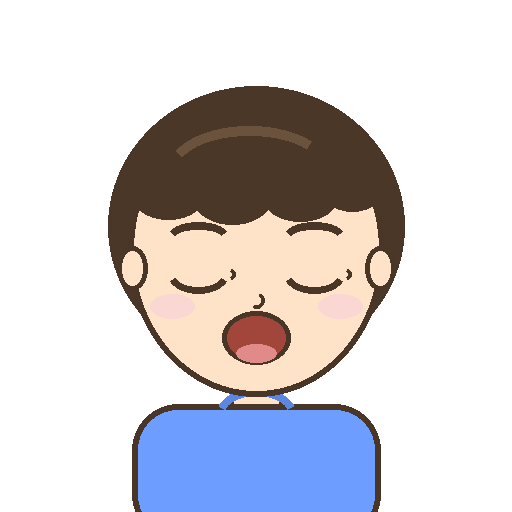
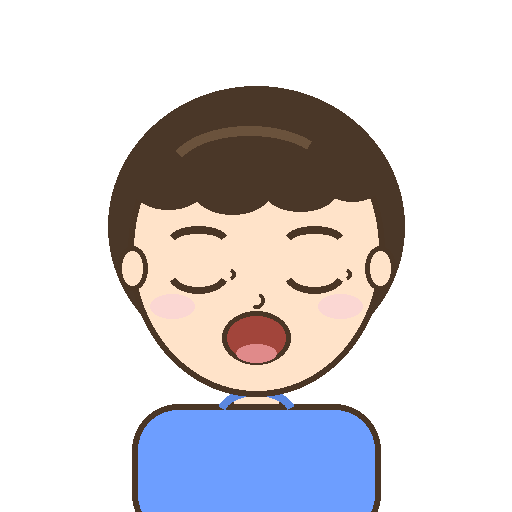
표현력 패키지: 마우스 시선 추적 + 텍스트 감정 자동 프리셋(3페이지) + 기본 캐릭터 눈썹 가림 수정

Changed region(s): [[0.2812, 0.375, 0.75, 0.4688]]

diff --git a/static/puppet.html b/static/puppet.html
@@ -64,6 +64,7 @@
     <button type="button" class="alt" data-emo="sad">😢 슬픔</button>
     <button type="button" class="alt" data-emo="angry">😠 화남</button>
     <button type="button" class="alt" data-emo="surprise">😲 놀람</button>
+    <label><input type="checkbox" id="autoEmo" checked> 감정 자동</label>
   </div>
 
   <div class="row">
@@ -240,6 +241,12 @@ function acceptFile(file) {
   reader.readAsDataURL(file);
 }
 const stage = document.querySelector(".stage");
+stage.addEventListener("pointermove", e => {  // 시선 커서 추적
+  const r = stage.getBoundingClientRect();
+  cursorGX = ((e.clientX - r.left) / r.width - 0.5) * 2;
+  cursorGY = ((e.clientY - r.top) / r.height - 0.5) * 2;
+});
+stage.addEventListener("pointerleave", () => { cursorGX = 0; cursorGY = 0; });
 stage.addEventListener("dragover", e => e.preventDefault());
 stage.addEventListener("drop", e => { e.preventDefault(); acceptFile(e.dataTransfer.files[0]); });
 $("addChar").onclick = () => $("charFile").click();
@@ -249,6 +256,7 @@ $("charFile").onchange = e => { acceptFile(e.target.files[0]); e.target.value = 
 let anim = null;          // {fps, frames, index(names→col)} 재생 중인 발화
 let smooth = {};          // 지수 평활된 현재 가중치
 let nod = 0, wanderNext = 0, wanderR = 0, wanderY = 0, wanderGoalR = 0, wanderGoalY = 0;
+let cursorGX = 0, cursorGY = 0, gazeSX = 0, gazeSY = 0;  // 커서 시선(목표/평활)
 const norm = s => s.toLowerCase().replace(/[_\-\s]/g, "");
 
 function currentWeights() {
@@ -272,13 +280,24 @@ const EMOTIONS = {
   surprise: { browinnerup: 0.5, browouterupleft: 0.7, browouterupright: 0.7, jawopen: 0.3 },
 };
 let emotion = EMOTIONS.neutral;
+function setEmotion(key) {
+  emotion = EMOTIONS[key] || EMOTIONS.neutral;
+  document.querySelectorAll("#emotions button").forEach(x =>
+    x.style.background = x.dataset.emo === key ? "#5b8cff" : "#2a2a35");
+}
 document.querySelectorAll("#emotions button").forEach(b => {
-  b.onclick = () => {
-    emotion = EMOTIONS[b.dataset.emo];
-    document.querySelectorAll("#emotions button").forEach(x => x.style.background = "#2a2a35");
-    b.style.background = "#5b8cff";
-  };
+  b.onclick = () => setEmotion(b.dataset.emo);
 });
+
+// 텍스트 감정 추론 (발화 시 자동 프리셋 — puppet/docs/studio3d 동일 규칙 유지할 것)
+function inferEmotion(text) {
+  if (/ㅋㅋ|ㅎㅎ|하하|호호|웃겨|웃음/.test(text)) return "joy";  // 웃음이 최우선 신호
+  if (/[ㅠㅜ]{2,}|슬프|슬퍼|우울|눈물|아파|힘들|속상|외로/.test(text)) return "sad";
+  if (/화나|화가|짜증|열받|분노|싫어|그만해/.test(text)) return "angry";
+  if (/헉|깜짝|놀라|대박|세상에|믿을 수|[?!]{2,}/.test(text)) return "surprise";
+  if (/ㅋㅋ|ㅎㅎ|하하|호호|신나|행복|좋아|좋다|최고|사랑|기뻐|반가|!/.test(text)) return "joy";
+  return null;
+}
 
 // ---------- 깜빡임 (버튼 + 자동) ----------
 let blinkUntil = 0, nextAutoBlink = performance.now() + 4000;
@@ -531,11 +550,14 @@ function render(now) {
     draw("eye_L_closed"); draw("eye_R_closed");
   } else {
     draw("eye_L_open"); draw("eye_R_open");
-    const gx = +$("ovGaze").value ||
-      (W("eyelookoutright") + W("eyelookinleft") - W("eyelookoutleft") - W("eyelookinright")) / 2;
-    const gy = (W("eyelookdownleft") + W("eyelookdownright") - W("eyelookupleft") - W("eyelookupright")) / 2;
-    draw("pupil_L", gx * manifest.pupilRange, gy * manifest.pupilRange);
-    draw("pupil_R", gx * manifest.pupilRange, gy * manifest.pupilRange);
+    // 시선 우선순위: 슬라이더 > 엔진 채널 > 마우스 커서 추적
+    const chX = (W("eyelookoutright") + W("eyelookinleft") - W("eyelookoutleft") - W("eyelookinright")) / 2;
+    const chY = (W("eyelookdownleft") + W("eyelookdownright") - W("eyelookupleft") - W("eyelookupright")) / 2;
+    const sl = +$("ovGaze").value;
+    gazeSX += ((Math.abs(sl) > 0.01 ? sl : (chX || cursorGX * 0.9)) - gazeSX) * 0.15;
+    gazeSY += ((chY || cursorGY * 0.6) - gazeSY) * 0.15;
+    draw("pupil_L", gazeSX * manifest.pupilRange, gazeSY * manifest.pupilRange);
+    draw("pupil_R", gazeSX * manifest.pupilRange, gazeSY * manifest.pupilRange);
   }
   // 입 오버레이 세로 이동: 워프 ON이면 jaw 변위장을 입 앵커에서 평가한 값(≈11px·jaw)으로 대체해
   // base 워프와 정확히 함께 움직이게 함(이중 이동 방지). OFF면 기존 jawDrop 사용.
@@ -563,6 +585,10 @@ $("form").onsubmit = async e => {
   e.preventDefault();
   const text = $("text").value.trim();
   if (!text) return;
+  if ($("autoEmo").checked) {
+    const emo = inferEmotion(text);
+    if (emo) setEmotion(emo);
+  }
   $("send").disabled = true;
   setStatus("생성 중…");
   try {

diff --git a/docs/index.html b/docs/index.html
@@ -57,6 +57,7 @@
     <button type="button" class="alt" data-emo="sad">😢 슬픔</button>
     <button type="button" class="alt" data-emo="angry">😠 화남</button>
     <button type="button" class="alt" data-emo="surprise">😲 놀람</button>
+    <label><input type="checkbox" id="autoEmo" checked> 감정 자동</label>
   </div>
 
   <div class="row">
@@ -218,18 +219,30 @@ const EMOTIONS = {
   surprise: { browinnerup: 0.5, browouterupleft: 0.7, browouterupright: 0.7, jawopen: 0.3 },
 };
 let emotion = EMOTIONS.neutral;
+function setEmotion(key) {
+  emotion = EMOTIONS[key] || EMOTIONS.neutral;
+  document.querySelectorAll("#emotions button").forEach(x =>
+    x.style.background = x.dataset.emo === key ? "#5b8cff" : "#2a2a35");
+}
 document.querySelectorAll("#emotions button").forEach(b => {
-  b.onclick = () => {
-    emotion = EMOTIONS[b.dataset.emo];
-    document.querySelectorAll("#emotions button").forEach(x => x.style.background = "#2a2a35");
-    b.style.background = "#5b8cff";
-  };
+  b.onclick = () => setEmotion(b.dataset.emo);
 });
+
+// 텍스트 감정 추론 (발화 시 자동 프리셋 — puppet/docs/studio3d 동일 규칙 유지할 것)
+function inferEmotion(text) {
+  if (/ㅋㅋ|ㅎㅎ|하하|호호|웃겨|웃음/.test(text)) return "joy";  // 웃음이 최우선 신호
+  if (/[ㅠㅜ]{2,}|슬프|슬퍼|우울|눈물|아파|힘들|속상|외로/.test(text)) return "sad";
+  if (/화나|화가|짜증|열받|분노|싫어|그만해/.test(text)) return "angry";
+  if (/헉|깜짝|놀라|대박|세상에|믿을 수|[?!]{2,}/.test(text)) return "surprise";
+  if (/ㅋㅋ|ㅎㅎ|하하|호호|신나|행복|좋아|좋다|최고|사랑|기뻐|반가|!/.test(text)) return "joy";
+  return null;
+}
 
 // ---------- 상태·깜빡임 ----------
 let smooth = {};
 const W = k => smooth[k] || 0;
 let nod = 0, wanderNext = 0, wanderR = 0, wanderY = 0, wanderGoalR = 0, wanderGoalY = 0;
+let cursorGX = 0, cursorGY = 0, gazeSX = 0, gazeSY = 0;  // 커서 시선(목표/평활)
 let blinkUntil = 0, nextAutoBlink = performance.now() + 4000;
 $("blinkBtn").onclick = () => blinkUntil = performance.now() + 140;
 $("blinkInterval").oninput = e => $("blinkIntervalVal").textContent = e.target.value + "초";
@@ -448,6 +461,7 @@ function render(now) {
 
   ctx.clearRect(0, 0, 512, 512);
   const draw = (n, dyy = 0) => parts[n] && ctx.drawImage(parts[n], 0, dyy);
+  const drawXY = (n, dx, dyy) => parts[n] && ctx.drawImage(parts[n], dx, dyy);
   if (!warpOn) {   // 워프 OFF/미지원: 2D가 흰 배경+base를 그림 (폴백). ON이면 WebGL이 base 담당, 배경은 .stage 흰색.
     ctx.fillStyle = "#fff"; ctx.fillRect(0, 0, 512, 512);
     draw("base");
@@ -456,7 +470,13 @@ function render(now) {
                + (manifest.browRange || 0) * 0.8 * (W("browdownleft") + W("browdownright")) / 2;
   draw("brow_L", browUp); draw("brow_R", browUp);
   if (blink > 0.5) { draw("eye_L_closed"); draw("eye_R_closed"); }
-  else { draw("eye_L_open"); draw("eye_R_open"); draw("pupil_L"); draw("pupil_R"); }
+  else {
+    draw("eye_L_open"); draw("eye_R_open");
+    gazeSX += (cursorGX * 0.9 - gazeSX) * 0.15;  // 커서 시선 추적 (평활)
+    gazeSY += (cursorGY * 0.6 - gazeSY) * 0.15;
+    const pr = manifest.pupilRange || 0;
+    drawXY("pupil_L", gazeSX * pr, gazeSY * pr); drawXY("pupil_R", gazeSX * pr, gazeSY * pr);
+  }
   // 입 오버레이 세로 이동: 워프 ON이면 jaw 변위장을 입 앵커에서 평가한 값(≈11px·jaw)으로 대체해
   // base 워프와 정확히 함께 움직이게 함(이중 이동 방지). OFF면 기존 jawDrop 사용.
   const jawDy = warpOn ? 14 * W("jawopen") * WARP_JAW_G : W("jawopen") * (manifest.jawDrop || 8);
@@ -477,6 +497,10 @@ requestAnimationFrame(render);
 $("form").onsubmit = e => {
   e.preventDefault();
   const text = $("text").value.trim();
+  if (text && $("autoEmo").checked) {
+    const emo = inferEmotion(text);
+    if (emo) setEmotion(emo);
+  }
   if (text) { speak(text); setStatus(""); }
 };
 
@@ -599,6 +623,12 @@ function acceptFile(file) {
   img.src = URL.createObjectURL(file);
 }
 const stage = document.querySelector(".stage");
+stage.addEventListener("pointermove", e => {  // 시선 커서 추적
+  const r = stage.getBoundingClientRect();
+  cursorGX = ((e.clientX - r.left) / r.width - 0.5) * 2;
+  cursorGY = ((e.clientY - r.top) / r.height - 0.5) * 2;
+});
+stage.addEventListener("pointerleave", () => { cursorGX = 0; cursorGY = 0; });
 stage.addEventListener("dragover", e => e.preventDefault());
 stage.addEventListener("drop", e => { e.preventDefault(); acceptFile(e.dataTransfer.files[0]); });
 $("addChar").onclick = () => $("charFile").click();

diff --git a/static/studio3d.html b/static/studio3d.html
@@ -50,6 +50,7 @@
     <button type="button" class="alt" data-emo="sad">😢</button>
     <button type="button" class="alt" data-emo="angry">😠</button>
     <button type="button" class="alt" data-emo="surprise">😲</button>
+    <label><input type="checkbox" id="autoEmo" checked> 감정 자동</label>
   </div>
 
   <div class="row">
@@ -157,6 +158,13 @@ addEventListener("pointermove", e => {
 let anim = null, smooth = {};
 const W = k => smooth[k] || 0;
 let nod = 0;
+let cursorGX = 0, cursorGY = 0, gazeSX = 0, gazeSY = 0;  // 커서 시선(목표/평활)
+canvas.addEventListener("pointermove", e => {
+  const r = canvas.getBoundingClientRect();
+  cursorGX = ((e.clientX - r.left) / r.width - 0.5) * 2;
+  cursorGY = ((e.clientY - r.top) / r.height - 0.5) * 2;
+});
+canvas.addEventListener("pointerleave", () => { cursorGX = 0; cursorGY = 0; });
 let blinkUntil = 0, nextAutoBlink = performance.now() + 4000;
 $("blinkBtn").onclick = () => blinkUntil = performance.now() + 150;
 function blinkValue(now) {
@@ -175,13 +183,24 @@ const EMOTIONS = {
   surprise: { browinnerup: 0.6, browouterupleft: 0.75, browouterupright: 0.75, eyewideleft: 0.8, eyewideright: 0.8, jawopen: 0.3 },
 };
 let emotion = EMOTIONS.neutral;
+function setEmotion(key) {
+  emotion = EMOTIONS[key] || EMOTIONS.neutral;
+  document.querySelectorAll("#emotions button").forEach(x =>
+    x.style.background = x.dataset.emo === key ? "#76b900" : "#2a2a35");
+}
 document.querySelectorAll("#emotions button").forEach(b => {
-  b.onclick = () => {
-    emotion = EMOTIONS[b.dataset.emo];
-    document.querySelectorAll("#emotions button").forEach(x => x.style.background = "#2a2a35");
-    b.style.background = "#76b900";
-  };
+  b.onclick = () => setEmotion(b.dataset.emo);
 });
+
+// 텍스트 감정 추론 (발화 시 자동 프리셋 — puppet/docs/studio3d 동일 규칙 유지할 것)
+function inferEmotion(text) {
+  if (/ㅋㅋ|ㅎㅎ|하하|호호|웃겨|웃음/.test(text)) return "joy";  // 웃음이 최우선 신호
+  if (/[ㅠㅜ]{2,}|슬프|슬퍼|우울|눈물|아파|힘들|속상|외로/.test(text)) return "sad";
+  if (/화나|화가|짜증|열받|분노|싫어|그만해/.test(text)) return "angry";
+  if (/헉|깜짝|놀라|대박|세상에|믿을 수|[?!]{2,}/.test(text)) return "surprise";
+  if (/ㅋㅋ|ㅎㅎ|하하|호호|신나|행복|좋아|좋다|최고|사랑|기뻐|반가|!/.test(text)) return "joy";
+  return null;
+}
 
 function currentWeights() {
   const w = {};
@@ -213,11 +232,13 @@ function render(now) {
     inf[idx] = k === "eyeblinkleft" || k === "eyeblinkright" ? blink : (smooth[k] || 0);
   }
 
-  // 시선: 슬라이더 우선, 없으면 eyeLook 채널
-  const gx = +$("ovGaze").value ||
-    (W("eyelookoutright") + W("eyelookinleft") - W("eyelookoutleft") - W("eyelookinright")) / 2;
-  const gy = (W("eyelookdownleft") + W("eyelookdownright") - W("eyelookupleft") - W("eyelookupright")) / 2;
-  for (const e of eyes) e.rotation.set(gy * 0.3, gx * 0.4, 0);
+  // 시선 우선순위: 슬라이더 > 엔진 채널 > 마우스 커서 추적 (평활)
+  const chX = (W("eyelookoutright") + W("eyelookinleft") - W("eyelookoutleft") - W("eyelookinright")) / 2;
+  const chY = (W("eyelookdownleft") + W("eyelookdownright") - W("eyelookupleft") - W("eyelookupright")) / 2;
+  const sl = +$("ovGaze").value;
+  gazeSX += ((Math.abs(sl) > 0.01 ? sl : (chX || cursorGX * 0.8)) - gazeSX) * 0.15;
+  gazeSY += ((chY || cursorGY * 0.5) - gazeSY) * 0.15;
+  for (const e of eyes) e.rotation.set(gazeSY * 0.3, gazeSX * 0.4, 0);
 
   // 머리: 사용자 드래그 + 발화 중 미세 끄덕임 + 엔진 head pose(있을 때만 — 현 체크포인트는 미출력)
   nod = 0.85 * nod + 0.15 * W("jawopen");
@@ -237,6 +258,10 @@ $("form").onsubmit = async e => {
   e.preventDefault();
   const text = $("text").value.trim();
   if (!text) return;
+  if ($("autoEmo").checked) {
+    const emo = inferEmotion(text);
+    if (emo) setEmotion(emo);
+  }
   $("send").disabled = true;
   setStatus("생성 중…");
   try {

diff --git a/tools/make_default_character.py b/tools/make_default_character.py
@@ -70,8 +70,8 @@ def make_base():
     for cx in (132, 380):
         ellipse_at(d, cx, 268, 30, 44, fill=SKIN, outline=LINE, width=5)
     # 앞머리: 둥근 갈래 + 하이라이트 (눈썹 위에서 끝나게)
-    d.chord((120, 96, 392, 298), 180, 360, fill=HAIR)
-    for cx, cy, w, h in ((168, 194, 74, 50), (232, 198, 78, 52), (300, 196, 76, 50), (352, 188, 62, 46)):
+    d.chord((120, 96, 392, 290), 180, 360, fill=HAIR)
+    for cx, cy, w, h in ((168, 186, 74, 46), (232, 190, 78, 48), (300, 188, 76, 46), (352, 180, 62, 42)):
         ellipse_at(d, cx, cy, w, h, fill=HAIR)
     d.arc((168, 126, 330, 212), 205, 320, fill=HAIR_HI, width=10)  # 머릿결 하이라이트
     # 볼 홍조
@@ -84,7 +84,7 @@ def make_base():
 
 def make_brow(cx):
     img, d = canvas()
-    d.arc((cx - 30, 222, cx + 30, 250), 200, 340, fill=LINE, width=8)
+    d.arc((cx - 30, 226, cx + 30, 254), 200, 340, fill=LINE, width=8)
     return img
 
 
